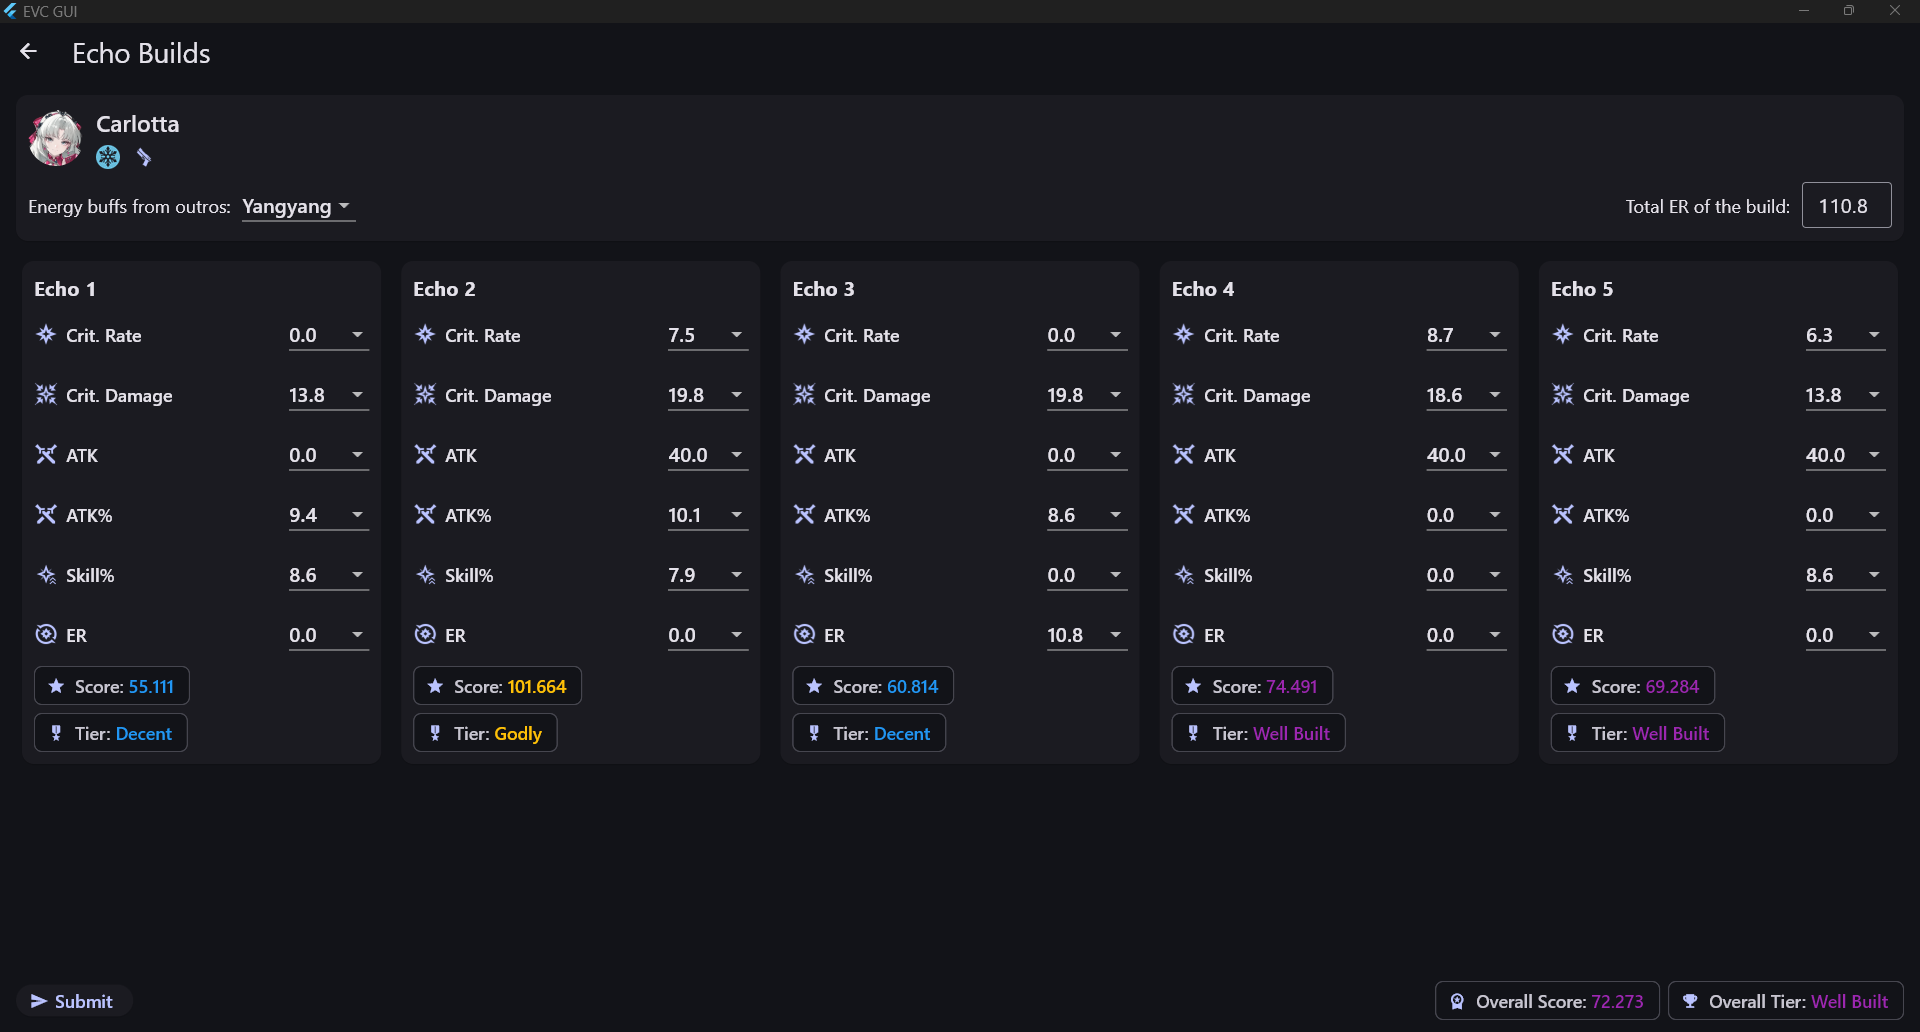
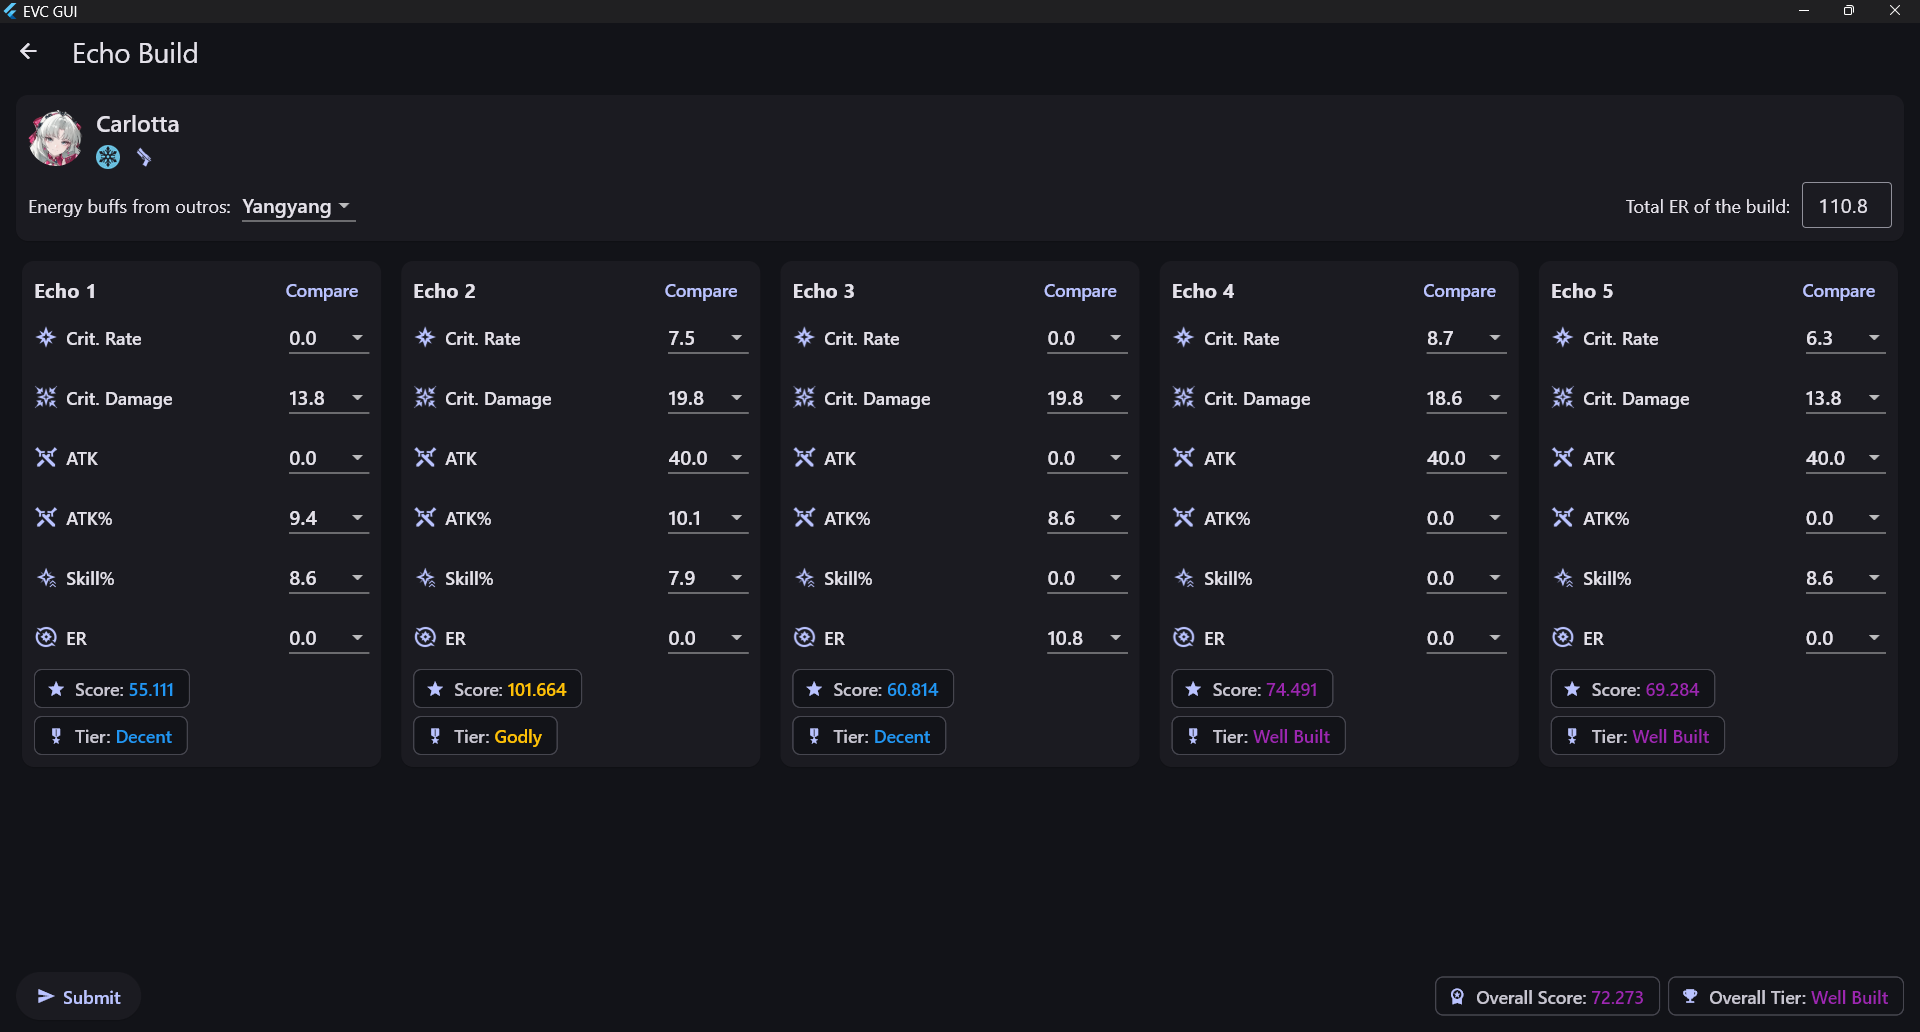
docs(readme): add screenshot for echoes comparison feature

diff --git a/README.md b/README.md
@@ -11,7 +11,8 @@ Full credit goes to [AstyuteChick](https://github.com/AstyuteChick) for making t
 ## Screenshots
 
 ![Main Menu](.github/images/main-menu.png)
-![Build Screen](.github/images/build-screen.png)
+![Echo Build Screen](.github/images/build-screen.png)
+![Compare Echoes Screen](.github/images/compare-screen.png)
 
 ## Getting Started
 
